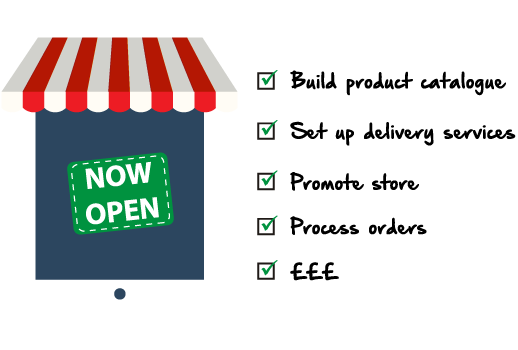
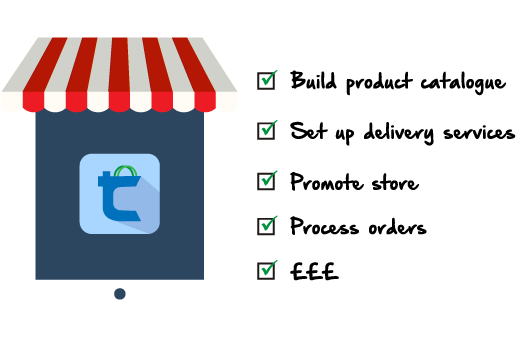
Cleaned up the responsive styles, added dist-clean task to the grunt config and new image for tablet dev-business slide.

Changed region(s): [[0.1236, 0.4286, 0.3398, 0.6857]]

diff --git a/app/src/sass/_responsive.scss b/app/src/sass/_responsive.scss
@@ -76,6 +76,21 @@
                 right:-90px;
             }
         }
+
+        #dev-business
+        {
+            img
+            {
+                &.tablet
+                {
+                    display: block !important;
+                }
+                &:not(.tablet)
+                {
+                    display: none;
+                }
+            }
+        }
     }
 }
 @media handheld, only screen and (max-width: 880px) 
@@ -162,6 +177,22 @@
             .content-section
             {
                 margin-bottom: 0 !important;
+            }
+        }
+
+        #dev-business
+        {
+            img
+            {
+                &.tablet
+                {
+                    display: none !important;
+                }
+
+                &:not(.tablet)
+                {
+                    display: inline-block;
+                }
             }
         }
 

diff --git a/Gruntfile.js b/Gruntfile.js
@@ -77,6 +77,13 @@ module.exports = function (grunt) {
                     ]
                 }]
             },
+            dist_folder: {
+                files: [{
+                    src: [
+                        '<%= trado_promo.dist %>/*'
+                    ]
+                }]
+            },
             server: {
                 files: [{
                     src: [
@@ -270,5 +277,8 @@ module.exports = function (grunt) {
         'copy:dist',
         'cdnify:dist',
         'htmlbuild:dist'
+    ]);
+    grunt.registerTask('clean-dist', [
+        'clean:dist_folder'
     ]);
 };

diff --git a/app/src/sass/_home.scss b/app/src/sass/_home.scss
@@ -194,4 +194,12 @@
         background-position: center;
         height:365px;
     }
+
+    #dev-business 
+    {
+        .tablet
+        {
+            display: none;
+        }
+    }
 }
